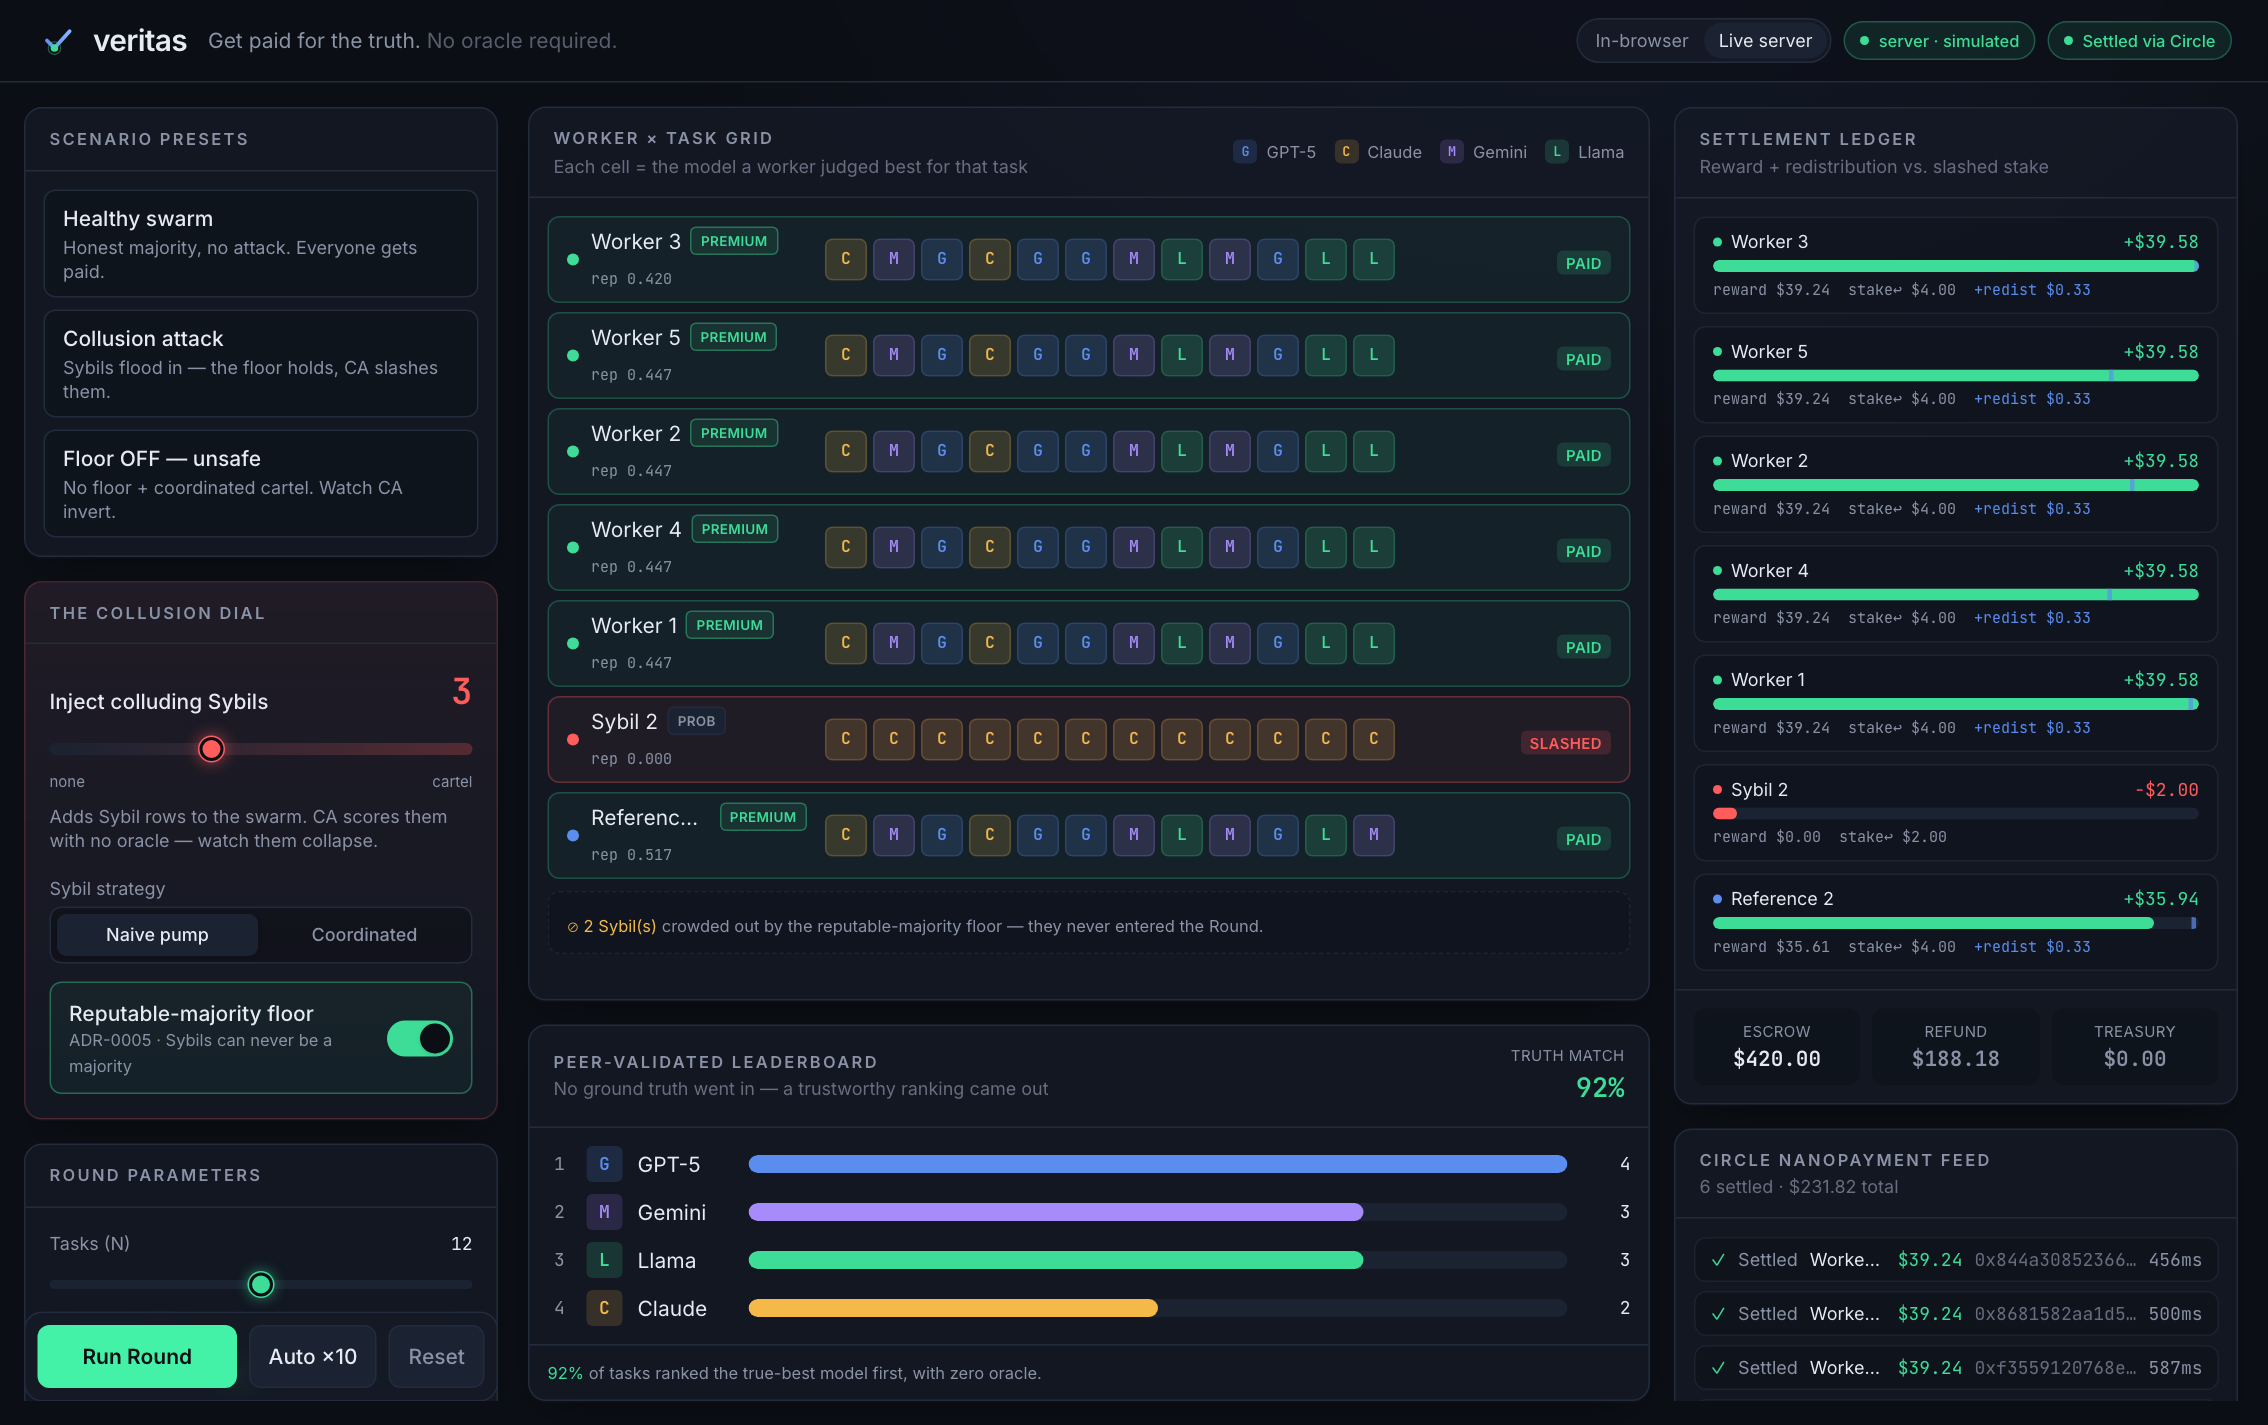
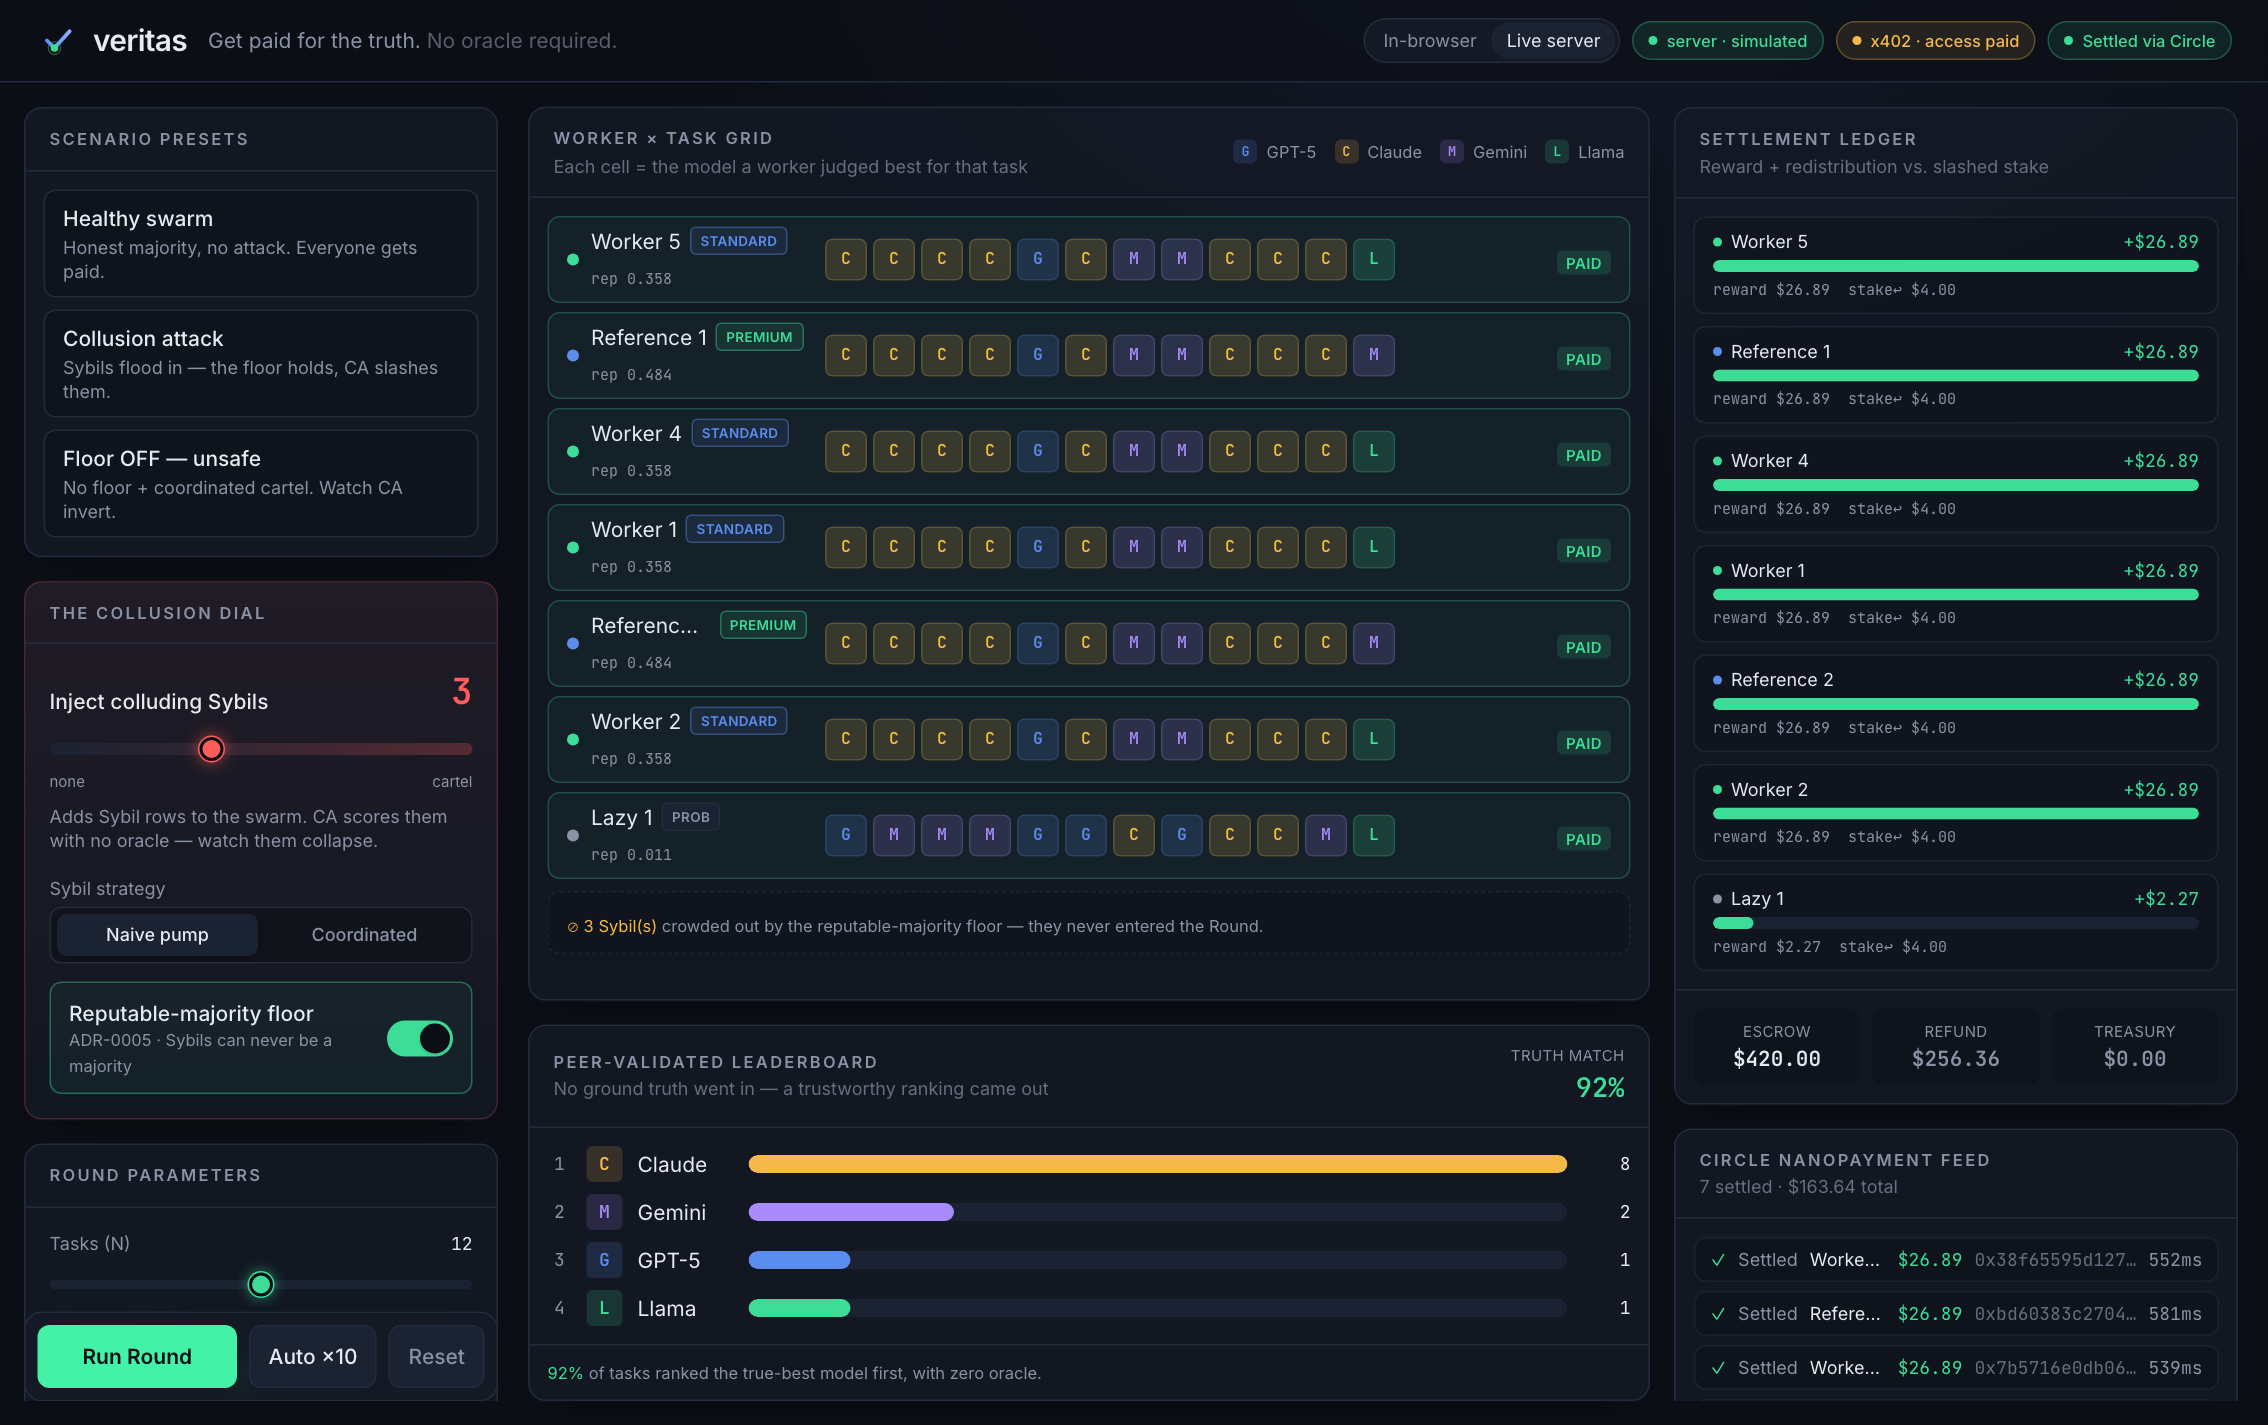
feat: make the x402 gate functional and visible by default
Server now defaults to X402_MODE=mock, so every gated request runs a real HTTP-402
challenge/response handshake (the dashboard auto-pays via the X-PAYMENT header). The web
client reads the X-Payment-Response proof and the TopBar shows an "x402 · access paid" chip
in Live-server mode — the Circle/x402 access-payment integration is now tangible in the demo,
not just mocked chrome. Adds a default-mode test; README updated.

diff --git a/apps/web/src/sim/api.ts b/apps/web/src/sim/api.ts
@@ -5,14 +5,18 @@ export const SERVER_URL =
   (import.meta.env.VITE_SERVER_URL as string | undefined) ?? "http://localhost:8787";
 
 /** The server may report which engine actually ran (live LLMs vs simulated fallback). */
-export type ServerRoundResult = RoundResult & { engineUsed?: "live" | "simulated" };
+export type ServerRoundResult = RoundResult & {
+  engineUsed?: "live" | "simulated";
+  /** Present when the x402 gate settled the access payment (mock/live modes). */
+  paymentProof?: string;
+};
 
 export interface ServerState {
   ok: boolean;
   engineUsed?: "live" | "simulated";
 }
 
-async function post<T>(path: string, body: unknown): Promise<T> {
+async function post<T>(path: string, body: unknown): Promise<{ data: T; paymentProof?: string }> {
   const res = await fetch(`${SERVER_URL}${path}`, {
     method: "POST",
     headers: {
@@ -26,7 +30,8 @@ async function post<T>(path: string, body: unknown): Promise<T> {
     throw new Error("402 Payment Required — x402 gate is live (configure a wallet to pay)");
   }
   if (!res.ok) throw new Error(`server ${res.status}: ${await res.text().catch(() => "")}`);
-  return (await res.json()) as T;
+  const paymentProof = res.headers.get("x-payment-response") ?? undefined;
+  return { data: (await res.json()) as T, paymentProof };
 }
 
 export async function pingServer(): Promise<boolean> {
@@ -38,13 +43,17 @@ export async function pingServer(): Promise<boolean> {
   }
 }
 
-export function runRoundLive(
+export async function runRoundLive(
   params: RoundParams,
   composition: SwarmComposition,
 ): Promise<ServerRoundResult> {
-  return post<ServerRoundResult>("/api/round", { params, composition });
+  const { data, paymentProof } = await post<ServerRoundResult>("/api/round", {
+    params,
+    composition,
+  });
+  return { ...data, paymentProof: data.paymentProof ?? paymentProof };
 }
 
-export function resetServer(): Promise<void> {
-  return post<void>("/api/reset", {});
+export async function resetServer(): Promise<void> {
+  await post<void>("/api/reset", {});
 }

diff --git a/apps/web/src/components/TopBar.tsx b/apps/web/src/components/TopBar.tsx
@@ -52,6 +52,7 @@ export function TopBar() {
   const busy = useVeritas((s) => s.busy);
   const serverOnline = useVeritas((s) => s.serverOnline);
   const engineUsed = useVeritas((s) => s.engineUsed);
+  const paymentProof = useVeritas((s) => s.paymentProof);
 
   return (
     <header className="flex items-center justify-between gap-4 border-b border-line bg-ink/60 px-6 py-3 backdrop-blur">
@@ -82,6 +83,11 @@ export function TopBar() {
         ) : (
           <Chip tone="scoring">
             <span className="h-1.5 w-1.5 rounded-full bg-scoring" /> in-browser sim
+          </Chip>
+        )}
+        {engine === "server" && paymentProof && (
+          <Chip tone="amber" title={paymentProof}>
+            <span className="h-1.5 w-1.5 rounded-full bg-amber" /> x402 · access paid
           </Chip>
         )}
         <Chip tone="honest">

diff --git a/apps/server/src/config.ts b/apps/server/src/config.ts
@@ -13,7 +13,10 @@ export interface ServerConfig {
 }
 
 export function loadConfig(env: NodeJS.ProcessEnv = process.env): ServerConfig {
-  const x402Mode = (env.X402_MODE ?? "off") as X402Mode;
+  // Default to `mock`: the x402 gate performs a real 402 challenge/response handshake on
+  // each gated request (the dashboard auto-pays via header), so the Circle/x402 integration
+  // is visibly functional in the demo. Set X402_MODE=off to disable, or =live for real settlement.
+  const x402Mode = (env.X402_MODE ?? "mock") as X402Mode;
   const engine = (env.VERITAS_ENGINE ?? "simulated") as Engine;
   return {
     port: Number(env.PORT ?? 8787),

diff --git a/apps/server/test/app.test.ts b/apps/server/test/app.test.ts
@@ -49,6 +49,10 @@ describe("server /api/round", () => {
 });
 
 describe("x402 gate (mock mode)", () => {
+  it("defaults to mock mode so the gate is functional in the demo", () => {
+    expect(loadConfig({}).x402Mode).toBe("mock");
+  });
+
   const mockApp = () => createApp({ ...loadConfig({}), x402Mode: "mock" });
 
   it("returns 402 with payment requirements when X-PAYMENT is missing", async () => {

diff --git a/apps/web/src/store/useVeritas.ts b/apps/web/src/store/useVeritas.ts
@@ -73,6 +73,8 @@ interface VeritasState {
   serverOnline: boolean;
   /** What the server actually ran last: real LLM agents or its simulated fallback. */
   engineUsed: "live" | "simulated" | null;
+  /** x402 access-payment proof from the last gated request (mock/live modes). */
+  paymentProof: string | null;
 
   setEngine: (engine: Engine) => Promise<void>;
   setParam: <K extends keyof RoundParams>(key: K, value: RoundParams[K]) => void;
@@ -100,6 +102,7 @@ export const useVeritas = create<VeritasState>((set, get) => ({
   busy: false,
   serverOnline: false,
   engineUsed: null,
+  paymentProof: null,
 
   setEngine: async (engine) => {
     if (engine === "server") {
@@ -134,6 +137,7 @@ export const useVeritas = create<VeritasState>((set, get) => ({
         set((s) => ({
           result,
           engineUsed: result.engineUsed ?? "simulated",
+          paymentProof: result.paymentProof ?? null,
           serverOnline: true,
           history: [...s.history, result].slice(-40),
           rev: s.rev + 1,

diff --git a/apps/web/src/components/ui.tsx b/apps/web/src/components/ui.tsx
@@ -36,9 +36,11 @@ export function Panel({
 export function Chip({
   children,
   tone = "muted",
+  title,
 }: {
   children: ReactNode;
   tone?: "muted" | "honest" | "scoring" | "slash" | "amber";
+  title?: string;
 }) {
   const tones: Record<string, string> = {
     muted: "border-line bg-panel-2 text-muted",
@@ -49,6 +51,7 @@ export function Chip({
   };
   return (
     <span
+      title={title}
       className={`inline-flex items-center gap-1.5 rounded-full border px-2.5 py-1 text-[11px] font-medium ${tones[tone]}`}
     >
       {children}

diff --git a/README.md b/README.md
@@ -94,9 +94,10 @@ the worker agents *real* and the payment gate *real*, drop a `.env` into `apps/s
   (≥2 for genuine ADR-0002 model-family heterogeneity) and `VERITAS_ENGINE=live`. Honest
   Worker judgments then come from real LLMs, round-robin across providers; scoring/settlement
   stay in the verifiable `core`.
-- **Real x402 settlement** — set `X402_MODE=live`, `X402_PAY_TO=<funded wallet>`, and
-  `X402_FACILITATOR_URL`. `X402_MODE=mock` demonstrates the real 402 challenge/response
-  handshake without a funded wallet.
+- **x402 access payments** — the server defaults to `X402_MODE=mock`, so the API performs a
+  real HTTP-402 challenge/response handshake on every gated request (the dashboard auto-pays
+  and shows an "x402 · access paid" chip) — no wallet needed. For real on-chain settlement set
+  `X402_MODE=live`, `X402_PAY_TO=<funded wallet>`, and `X402_FACILITATOR_URL`.
 
 Then flip the dashboard's **Live server** toggle. No code changes required.
 